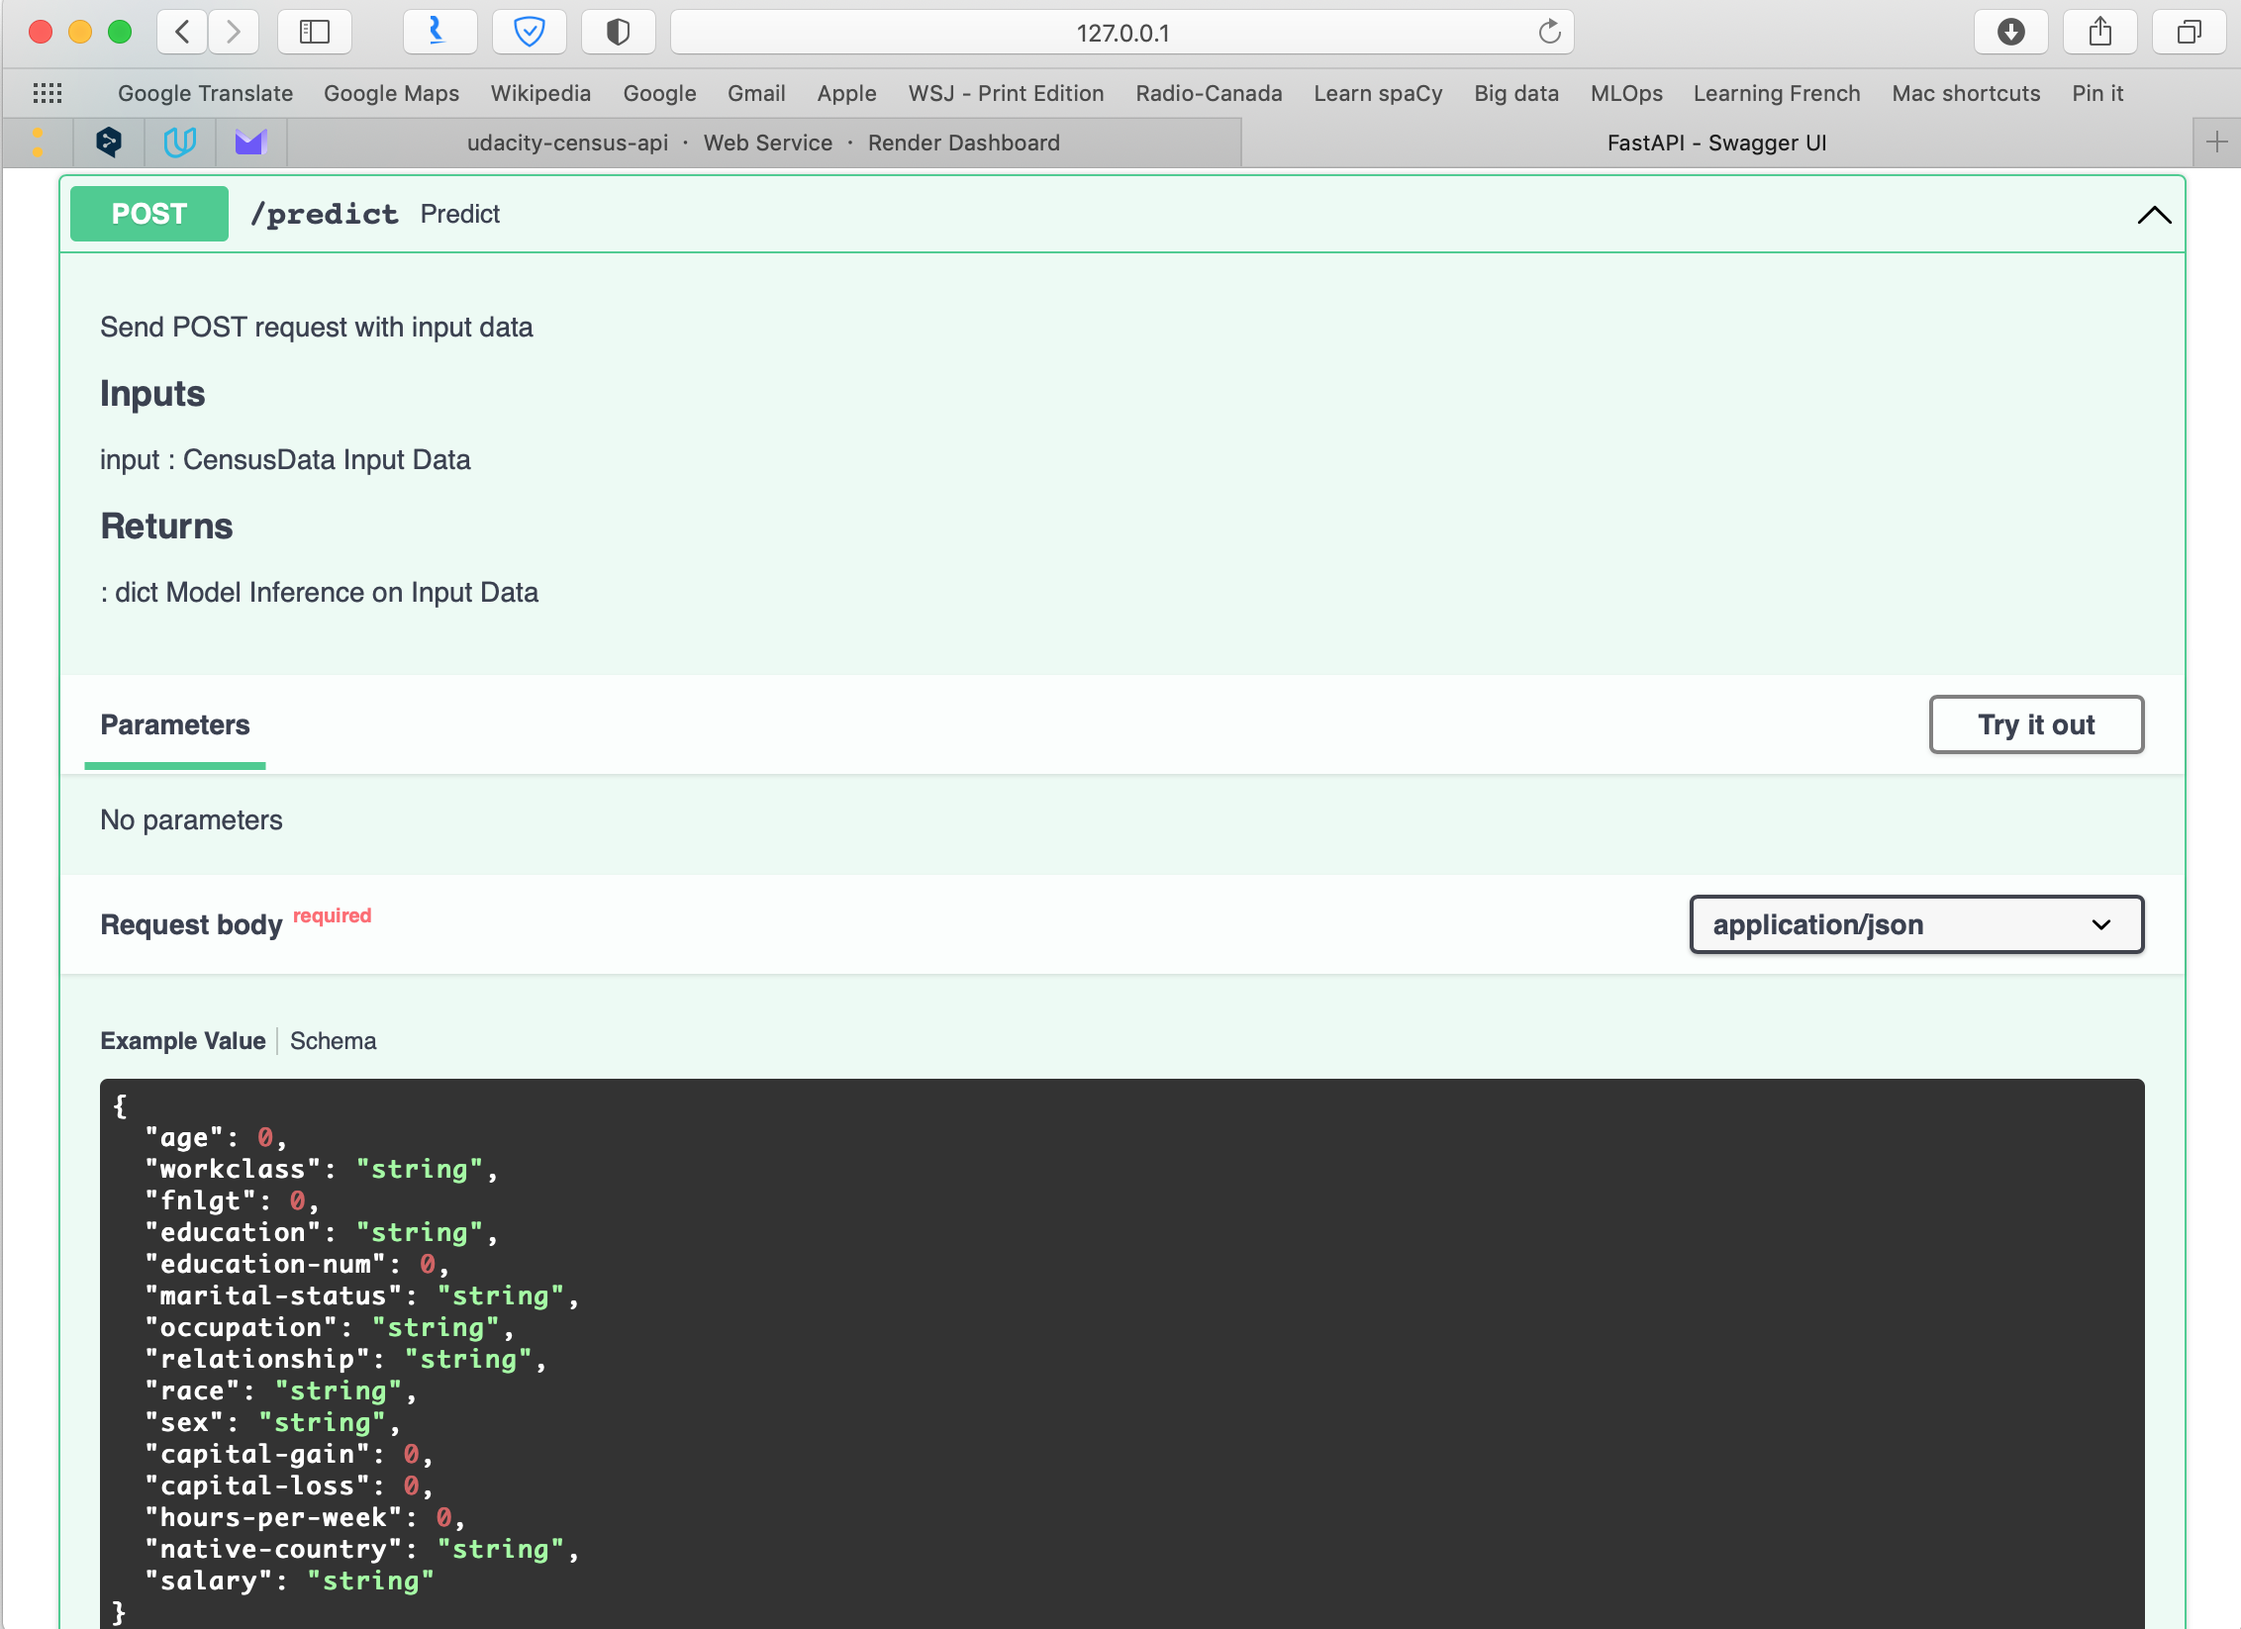
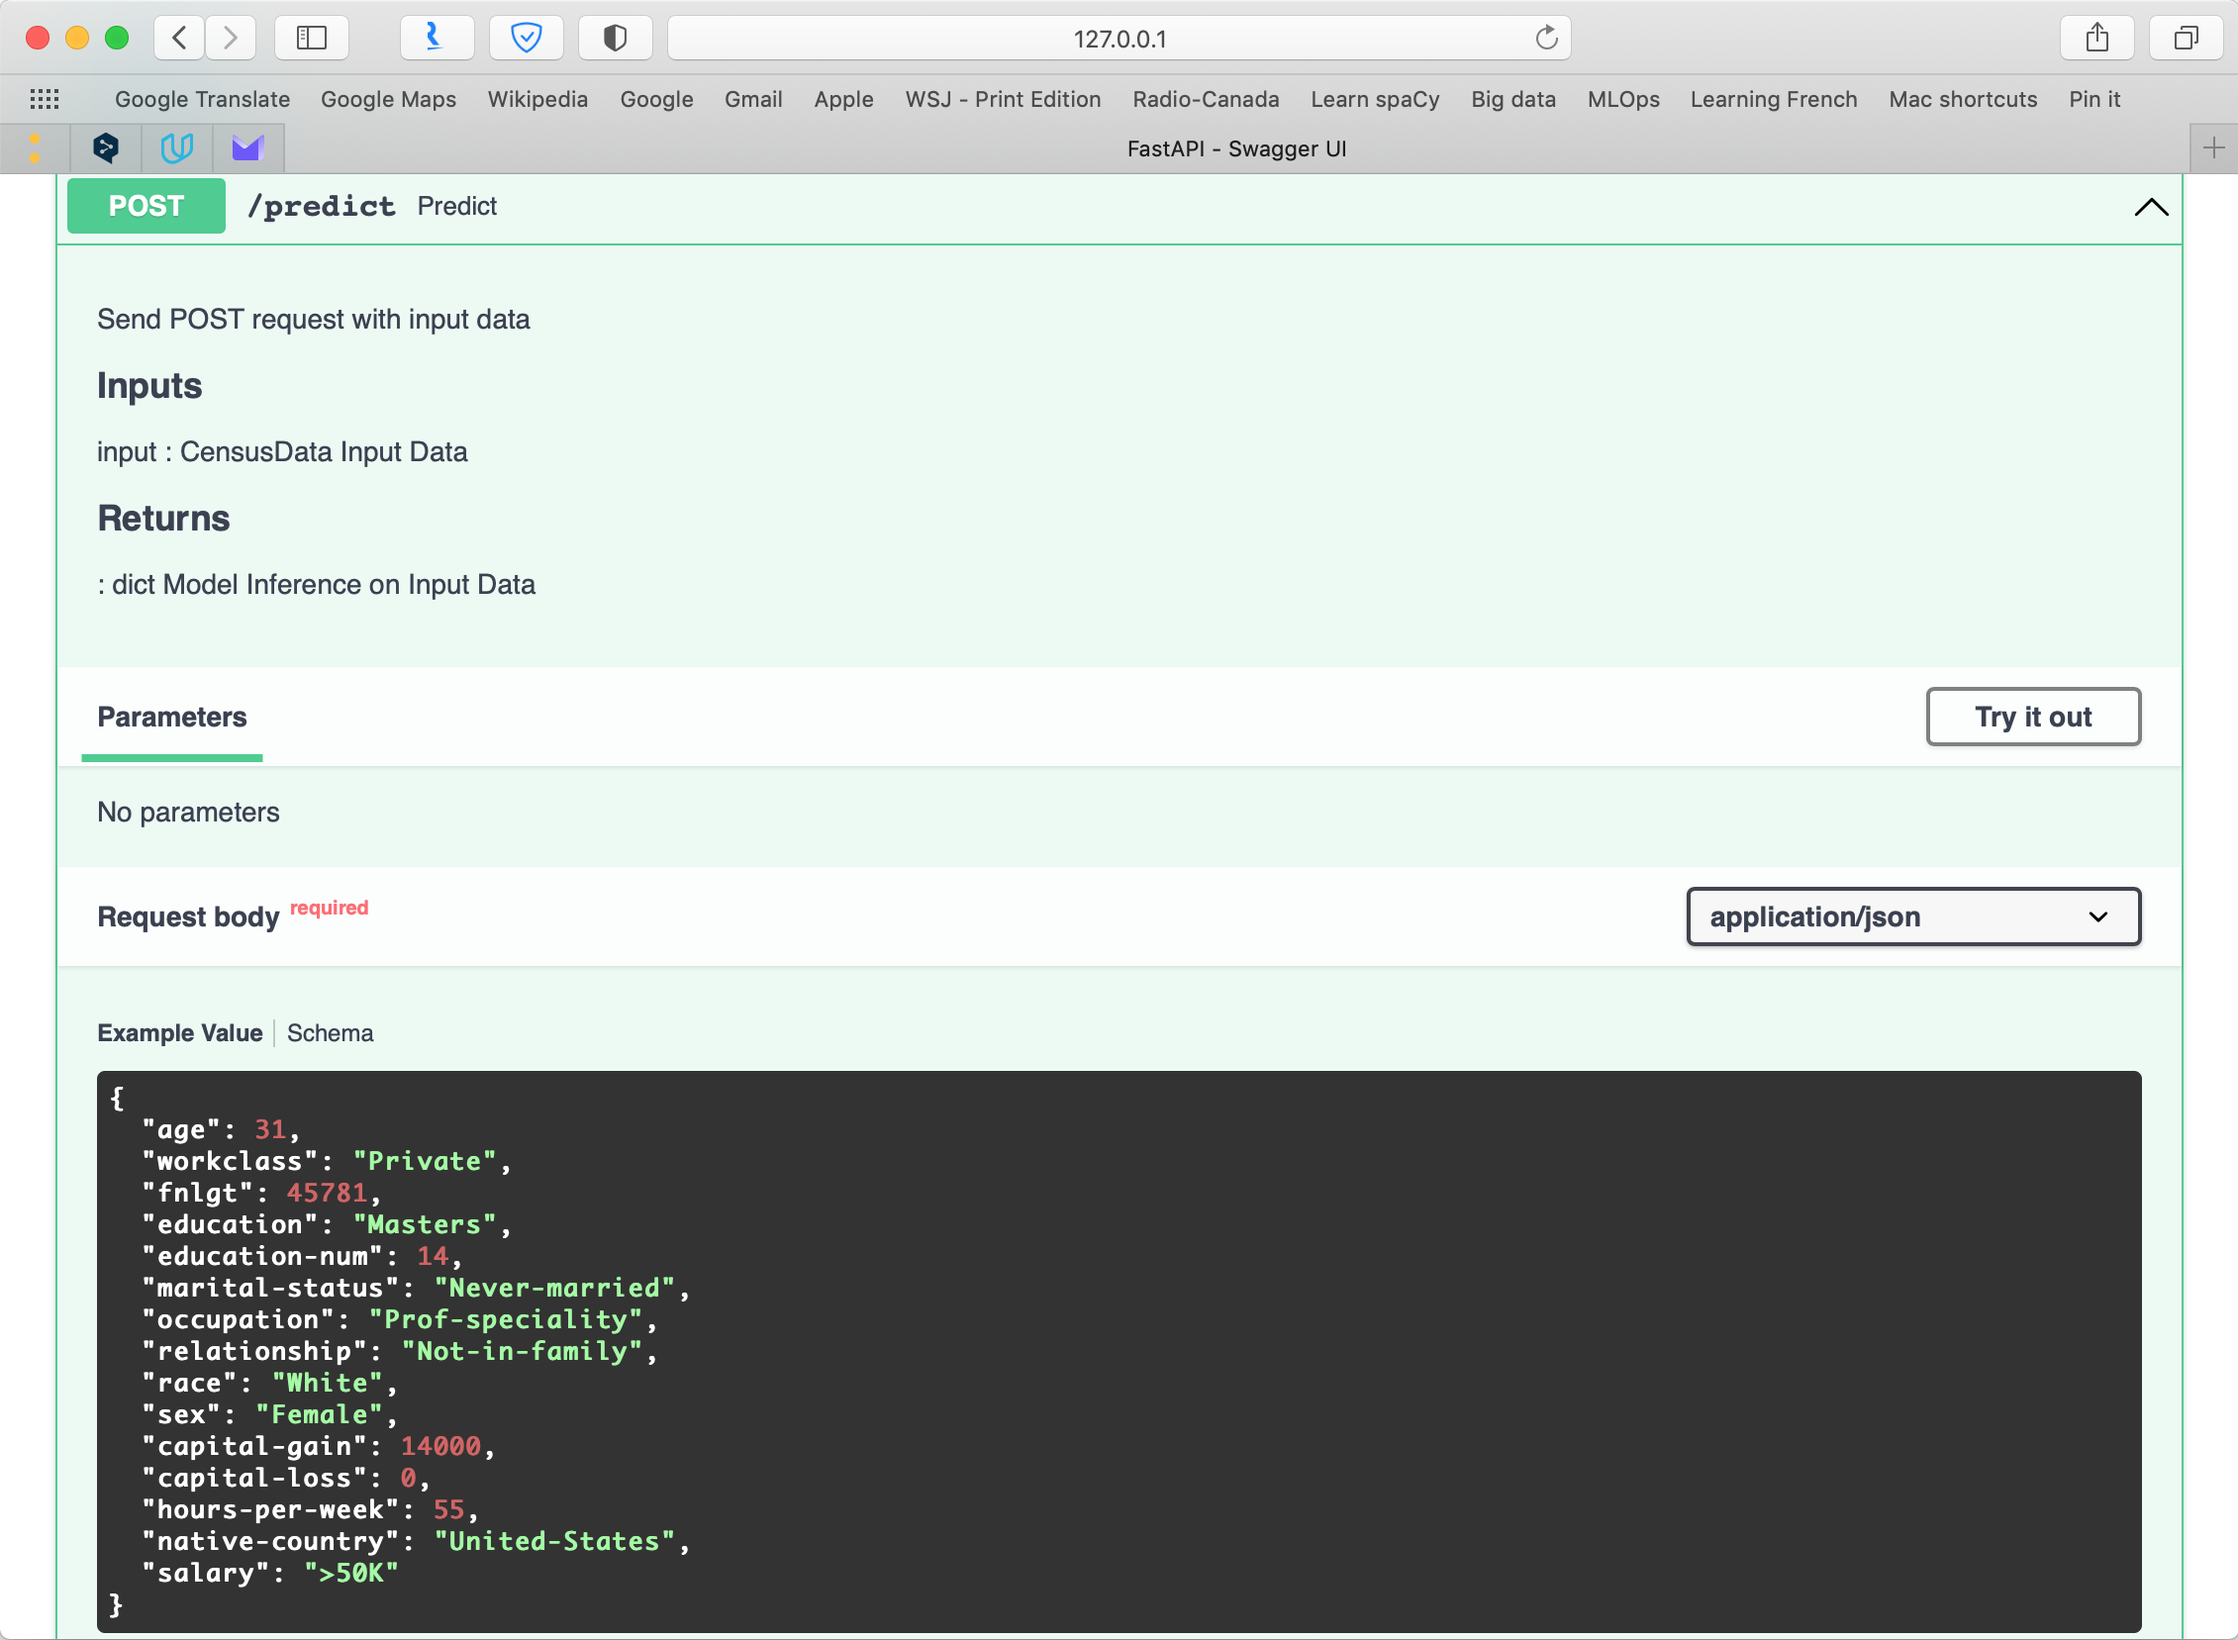
Schema Example added

diff --git a/tests/conftest.py b/tests/conftest.py
@@ -68,21 +68,22 @@ def prepare_model(prepare_data):
 # Over 50K
 @pytest.fixture(scope='session')
 def payload_over_sample():
-    payload = {'age': 31,
-        'workclass': 'Private',
-        'fnlgt': 45781,
-        'education': 'Masters',
-        'education-num': 14,
-        'marital-status': 'Never-married',
-        'occupation': 'Prof-speciality',
-        'relationship': 'Not-in-family',
-        'race': 'White',
-        'sex': 'Female',
-        'capital-gain': 14000,
-        'capital-loss': 0,
-        'hours-per-week': 55,
-        'native-country': 'United-States',
-        'salary': '>50K'
+    payload = {
+        "age": 31,
+        "workclass": "Private",
+        "fnlgt": 45781,
+        "education": "Masters",
+        "education-num": 14,
+        "marital-status": "Never-married",
+        "occupation": "Prof-speciality",
+        "relationship": "Not-in-family",
+        "race": "White",
+        "sex": "Female",
+        "capital-gain": 14000,
+        "capital-loss": 0,
+        "hours-per-week": 55,
+        "native-country": "United-States",
+        "salary": ">50K"
     }
 
     return payload
@@ -91,21 +92,21 @@ def payload_over_sample():
 @pytest.fixture(scope='session')
 def payload_under_sample():
     payload = {
-        'age': 66,
-        'workclass': 'Private',
-        'fnlgt': 211781,
-        'education': 'Masters',
-        'education-num': 14,
-        'marital-status': 'Never-married',
-        'occupation': 'Prof-speciality',
-        'relationship': 'Not-in-family',
-        'race': 'Black',
-        'sex': 'Female',
-        'capital-gain': 0,
-        'capital-loss': 0,
-        'hours-per-week': 55,
-        'native-country': 'United-States',
-        'salary': '<=50K'
+        "age": 66,
+        "workclass": "Private",
+        "fnlgt": 211781,
+        "education": "Masters",
+        "education-num": 14,
+        "marital-status": "Never-married",
+        "occupation": "Prof-speciality",
+        "relationship": "Not-in-family",
+        "race": "Black",
+        "sex": "Female",
+        "capital-gain": 0,
+        "capital-loss": 0,
+        "hours-per-week": 55,
+        "native-country": "United-States",
+        "salary": "<=50K"
     }
 
     return payload
@@ -114,21 +115,21 @@ def payload_under_sample():
 @pytest.fixture(scope='session')
 def payload_error_sample():
     payload = {
-        'age': 66,
-        'workclass': 'Private',
-        'fnlgt': 211781,
-        'education': 'Masters',
-        'education-num': 'Twenty',
-        'marital-status': 'Never-married',
-        'occupation': 'Prof-speciality',
-        'relationship': 'Not-in-family',
-        'race': 'Black',
-        'sex': 'Female',
-        'capital-gain': 0,
-        'capital-loss': 0,
-        'hours-per-week': 55,
-        'native-country': 'United-States',
-        'salary': '<=50K'
+        "age": 66,
+        "workclass": "Private",
+        "fnlgt": 211781,
+        "education": "Masters",
+        "education-num": "Twenty",
+        "marital-status": "Never-married",
+        "occupation": "Prof-speciality",
+        "relationship": "Not-in-family",
+        "race": "Black",
+        "sex": "Female",
+        "capital-gain": 0,
+        "capital-loss": 0,
+        "hours-per-week": 55,
+        "native-country": "United-States",
+        "salary": "<=50K"
     }
 
     return payload

diff --git a/tests/remote_post.py b/tests/remote_post.py
@@ -3,21 +3,22 @@ import requests
 
 site = 'https://udacity-census-api.onrender.com/predict'
 
-payload = {'age': 31,
-    'workclass': 'Private',
-    'fnlgt': 45781,
-    'education': 'Masters',
-    'education-num': 14,
-    'marital-status': 'Never-married',
-    'occupation': 'Prof-speciality',
-    'relationship': 'Not-in-family',
-    'race': 'White',
-    'sex': 'Female',
-    'capital-gain': 14000,
-    'capital-loss': 0,
-    'hours-per-week': 55,
-    'native-country': 'United-States',
-    'salary': '>50K'
+payload = {
+    "age": 31,
+    "workclass": "Private",
+    "fnlgt": 45781,
+    "education": "Masters",
+    "education-num": 14,
+    "marital-status": "Never-married",
+    "occupation": "Prof-speciality",
+    "relationship": "Not-in-family",
+    "race": "White",
+    "sex": "Female",
+    "capital-gain": 14000,
+    "capital-loss": 0,
+    "hours-per-week": 55,
+    "native-country": "United-States",
+    "salary": ">50K"
 }
 
 headers = {'Content-Type':'application/json'}

diff --git a/tests/local_post.py b/tests/local_post.py
@@ -3,21 +3,22 @@ import requests
 
 site = 'http://0.0.0.0:8000/predict'
 
-payload = {'age': 31,
-    'workclass': 'Private',
-    'fnlgt': 45781,
-    'education': 'Masters',
-    'education-num': 14,
-    'marital-status': 'Never-married',
-    'occupation': 'Prof-speciality',
-    'relationship': 'Not-in-family',
-    'race': 'White',
-    'sex': 'Female',
-    'capital-gain': 14000,
-    'capital-loss': 0,
-    'hours-per-week': 55,
-    'native-country': 'United-States',
-    'salary': '>50K'
+payload = {
+    "age": 31,
+    "workclass": "Private",
+    "fnlgt": 45781,
+    "education": "Masters",
+    "education-num": 14,
+    "marital-status": "Never-married",
+    "occupation": "Prof-speciality",
+    "relationship": "Not-in-family",
+    "race": "White",
+    "sex": "Female",
+    "capital-gain": 14000,
+    "capital-loss": 0,
+    "hours-per-week": 55,
+    "native-country": "United-States",
+    "salary": ">50K"
 }
 
 headers = {'Content-Type':'application/json'}

diff --git a/main.py b/main.py
@@ -42,6 +42,26 @@ class CensusData(BaseModel):
     salary: Optional[str]
 
     class Config:
+        schema_extra = {
+            "example": {
+                "age": 31,
+                "workclass": "Private",
+                "fnlgt": 45781,
+                "education": "Masters",
+                "education-num": 14,
+                "marital-status": "Never-married",
+                "occupation": "Prof-speciality",
+                "relationship": "Not-in-family",
+                "race": "White",
+                "sex": "Female",
+                "capital-gain": 14000,
+                "capital-loss": 0,
+                "hours-per-week": 55,
+                "native-country": "United-States",
+                "salary": ">50K"
+            }
+        }
+        
         alias_generator = rep_ubar_to_dash
 
 
